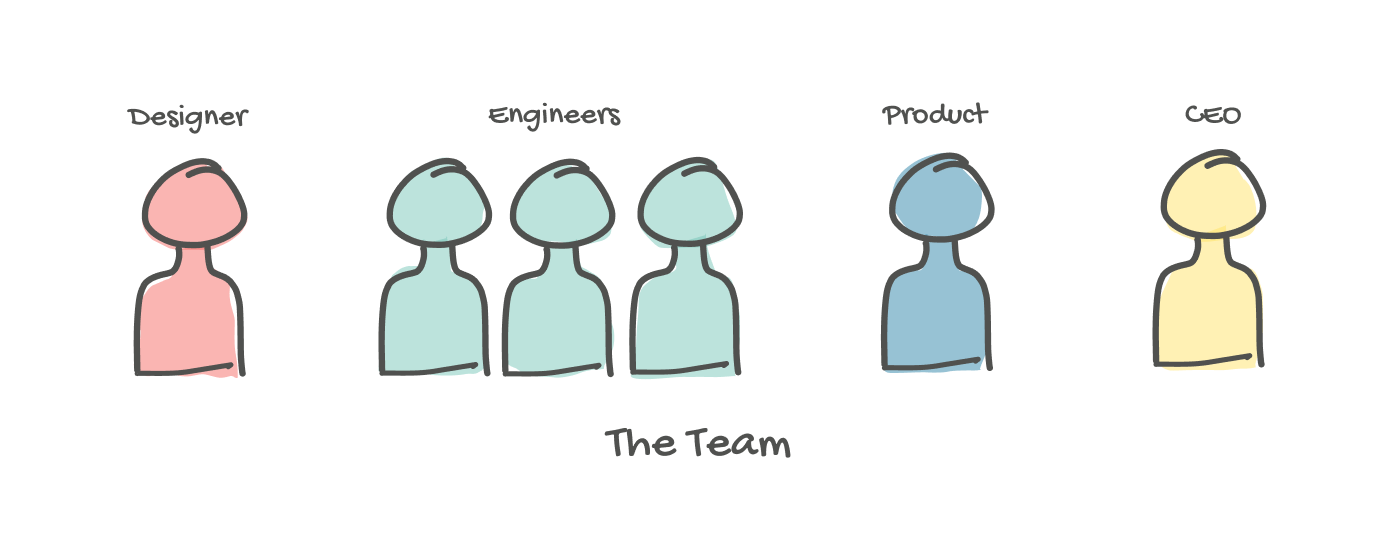
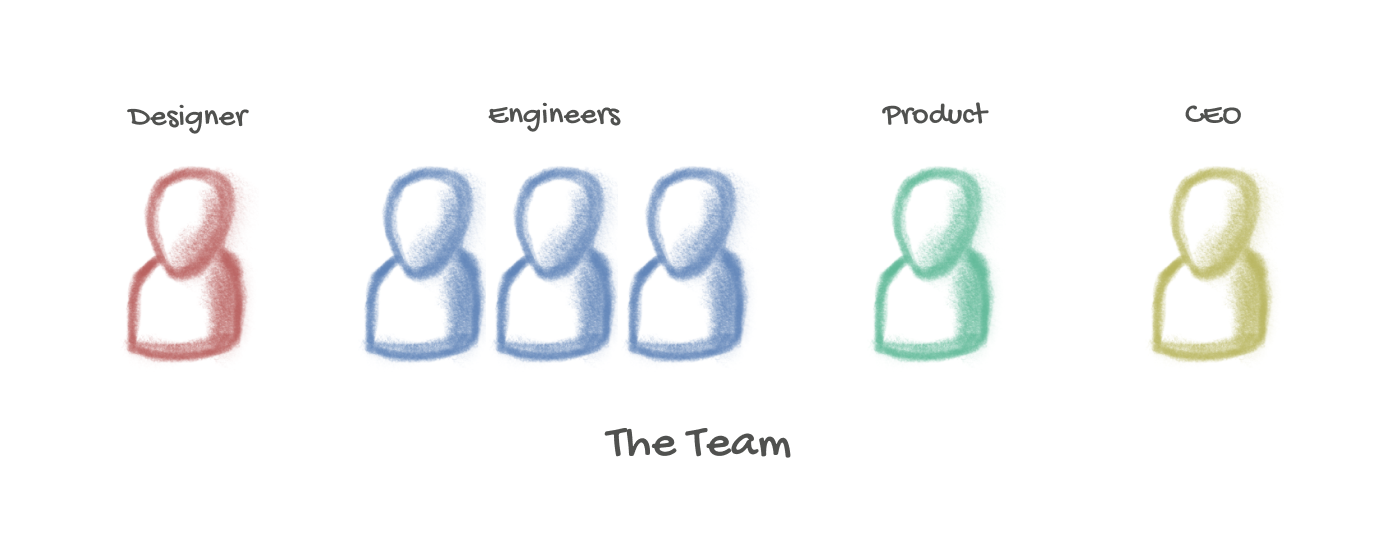
Updated the team photo for the aerlytix analytics suite case study.

diff --git a/public/case-studies/aerlytix-analytics-suite/index.html b/public/case-studies/aerlytix-analytics-suite/index.html
@@ -38,7 +38,7 @@
   <link rel="icon" type="image/png" sizes="16x16" href="https://www.ivanfrantar.com/images/favicon-16x16.png">
   <link rel="mask-icon" href="https://www.ivanfrantar.com/images/safari-pinned-tab.svg" color="#000000">
   <link rel="shortcut icon" type="image/x-icon" href="https://www.ivanfrantar.com/images/favicon.ico">
-  <link rel="stylesheet" href="/css/main.css?3d9a-0c1c-0491" />
+  <link rel="stylesheet" href="/css/main.css?02db-f0f2-d3b9" />
   <link rel="alternate" type="application/rss+xml" href="https://www.ivanfrantar.com/feed.xml" />
    
   
@@ -307,7 +307,7 @@ To ensure the wireframes were robust and aligned with user expectations, I condu
 <div class="container-lg mb-4">
   <img src="/images/case-studies/aerlytix/app-design-7.jpg" alt="App structure of the app">
 </div>
-<div class="container-lg mb-4">
+<div class="container-lg mb-5">
   <img src="/images/case-studies/aerlytix/app-design-8.jpg" alt="App structure of the app">
 </div>
 <div class="container post__container">

diff --git a/public/about-me/index.html b/public/about-me/index.html
@@ -40,7 +40,7 @@
   <link rel="icon" type="image/png" sizes="16x16" href="https://www.ivanfrantar.com/images/favicon-16x16.png">
   <link rel="mask-icon" href="https://www.ivanfrantar.com/images/safari-pinned-tab.svg" color="#000000">
   <link rel="shortcut icon" type="image/x-icon" href="https://www.ivanfrantar.com/images/favicon.ico">
-  <link rel="stylesheet" href="/css/main.css?1ad1-7541-9b48" />
+  <link rel="stylesheet" href="/css/main.css?f95d-35ae-f9ce" />
   <link rel="alternate" type="application/rss+xml" href="https://www.ivanfrantar.com/feed.xml" />
    
   

diff --git a/public/case-studies/aerlytix-reporting/index.html b/public/case-studies/aerlytix-reporting/index.html
@@ -38,7 +38,7 @@
   <link rel="icon" type="image/png" sizes="16x16" href="https://www.ivanfrantar.com/images/favicon-16x16.png">
   <link rel="mask-icon" href="https://www.ivanfrantar.com/images/safari-pinned-tab.svg" color="#000000">
   <link rel="shortcut icon" type="image/x-icon" href="https://www.ivanfrantar.com/images/favicon.ico">
-  <link rel="stylesheet" href="/css/main.css?c26d-df19-ecb3" />
+  <link rel="stylesheet" href="/css/main.css?662c-ca05-cfcf" />
   <link rel="alternate" type="application/rss+xml" href="https://www.ivanfrantar.com/feed.xml" />
    
   

diff --git a/public/contact-me/index.html b/public/contact-me/index.html
@@ -40,7 +40,7 @@
   <link rel="icon" type="image/png" sizes="16x16" href="https://www.ivanfrantar.com/images/favicon-16x16.png">
   <link rel="mask-icon" href="https://www.ivanfrantar.com/images/safari-pinned-tab.svg" color="#000000">
   <link rel="shortcut icon" type="image/x-icon" href="https://www.ivanfrantar.com/images/favicon.ico">
-  <link rel="stylesheet" href="/css/main.css?de61-aa5e-96c8" />
+  <link rel="stylesheet" href="/css/main.css?ddc7-cf13-f198" />
   <link rel="alternate" type="application/rss+xml" href="https://www.ivanfrantar.com/feed.xml" />
    
   

diff --git a/public/index.html b/public/index.html
@@ -38,7 +38,7 @@
   <link rel="icon" type="image/png" sizes="16x16" href="https://www.ivanfrantar.com/images/favicon-16x16.png">
   <link rel="mask-icon" href="https://www.ivanfrantar.com/images/safari-pinned-tab.svg" color="#000000">
   <link rel="shortcut icon" type="image/x-icon" href="https://www.ivanfrantar.com/images/favicon.ico">
-  <link rel="stylesheet" href="/css/main.css?ffd9-7b22-afbc" />
+  <link rel="stylesheet" href="/css/main.css?f97b-e256-932f" />
   <link rel="alternate" type="application/rss+xml" href="https://www.ivanfrantar.com/feed.xml" />
    
   

diff --git a/public/notes/aerlytix-partners-with-stratos-to-transform-aircraft-abs-reporting/index.html b/public/notes/aerlytix-partners-with-stratos-to-transform-aircraft-abs-reporting/index.html
@@ -38,7 +38,7 @@
   <link rel="icon" type="image/png" sizes="16x16" href="https://www.ivanfrantar.com/images/favicon-16x16.png">
   <link rel="mask-icon" href="https://www.ivanfrantar.com/images/safari-pinned-tab.svg" color="#000000">
   <link rel="shortcut icon" type="image/x-icon" href="https://www.ivanfrantar.com/images/favicon.ico">
-  <link rel="stylesheet" href="/css/main.css?d83a-650c-de3b" />
+  <link rel="stylesheet" href="/css/main.css?4e37-19ea-c14c" />
   <link rel="alternate" type="application/rss+xml" href="https://www.ivanfrantar.com/feed.xml" />
    
   

diff --git a/public/notes/the-aerlytix-team-moves-into-new-headquarters-in-the-centre-of-dublin/index.html b/public/notes/the-aerlytix-team-moves-into-new-headquarters-in-the-centre-of-dublin/index.html
@@ -38,7 +38,7 @@
   <link rel="icon" type="image/png" sizes="16x16" href="https://www.ivanfrantar.com/images/favicon-16x16.png">
   <link rel="mask-icon" href="https://www.ivanfrantar.com/images/safari-pinned-tab.svg" color="#000000">
   <link rel="shortcut icon" type="image/x-icon" href="https://www.ivanfrantar.com/images/favicon.ico">
-  <link rel="stylesheet" href="/css/main.css?eaa9-3485-5d0e" />
+  <link rel="stylesheet" href="/css/main.css?26f5-b875-1576" />
   <link rel="alternate" type="application/rss+xml" href="https://www.ivanfrantar.com/feed.xml" />
    
   

diff --git a/public/tag/abs/index.html b/public/tag/abs/index.html
@@ -38,7 +38,7 @@
   <link rel="icon" type="image/png" sizes="16x16" href="https://www.ivanfrantar.com/images/favicon-16x16.png">
   <link rel="mask-icon" href="https://www.ivanfrantar.com/images/safari-pinned-tab.svg" color="#000000">
   <link rel="shortcut icon" type="image/x-icon" href="https://www.ivanfrantar.com/images/favicon.ico">
-  <link rel="stylesheet" href="/css/main.css?eea3-3de9-c299" />
+  <link rel="stylesheet" href="/css/main.css?1da8-c407-8c7d" />
   <link rel="alternate" type="application/rss+xml" href="https://www.ivanfrantar.com/feed.xml" />
    
   

diff --git a/public/tag/aerlytix-team/index.html b/public/tag/aerlytix-team/index.html
@@ -38,7 +38,7 @@
   <link rel="icon" type="image/png" sizes="16x16" href="https://www.ivanfrantar.com/images/favicon-16x16.png">
   <link rel="mask-icon" href="https://www.ivanfrantar.com/images/safari-pinned-tab.svg" color="#000000">
   <link rel="shortcut icon" type="image/x-icon" href="https://www.ivanfrantar.com/images/favicon.ico">
-  <link rel="stylesheet" href="/css/main.css?52f8-d6ef-c921" />
+  <link rel="stylesheet" href="/css/main.css?d2bf-e791-aea5" />
   <link rel="alternate" type="application/rss+xml" href="https://www.ivanfrantar.com/feed.xml" />
    
   

diff --git a/public/tag/branding/index.html b/public/tag/branding/index.html
@@ -38,7 +38,7 @@
   <link rel="icon" type="image/png" sizes="16x16" href="https://www.ivanfrantar.com/images/favicon-16x16.png">
   <link rel="mask-icon" href="https://www.ivanfrantar.com/images/safari-pinned-tab.svg" color="#000000">
   <link rel="shortcut icon" type="image/x-icon" href="https://www.ivanfrantar.com/images/favicon.ico">
-  <link rel="stylesheet" href="/css/main.css?3932-1455-c98a" />
+  <link rel="stylesheet" href="/css/main.css?d7b5-b4ec-3eda" />
   <link rel="alternate" type="application/rss+xml" href="https://www.ivanfrantar.com/feed.xml" />
    
   

diff --git a/public/tag/business/index.html b/public/tag/business/index.html
@@ -38,7 +38,7 @@
   <link rel="icon" type="image/png" sizes="16x16" href="https://www.ivanfrantar.com/images/favicon-16x16.png">
   <link rel="mask-icon" href="https://www.ivanfrantar.com/images/safari-pinned-tab.svg" color="#000000">
   <link rel="shortcut icon" type="image/x-icon" href="https://www.ivanfrantar.com/images/favicon.ico">
-  <link rel="stylesheet" href="/css/main.css?852a-753d-bc13" />
+  <link rel="stylesheet" href="/css/main.css?8f04-d4c2-a68c" />
   <link rel="alternate" type="application/rss+xml" href="https://www.ivanfrantar.com/feed.xml" />
    
   

diff --git a/public/tag/notes/index.html b/public/tag/notes/index.html
@@ -38,7 +38,7 @@
   <link rel="icon" type="image/png" sizes="16x16" href="https://www.ivanfrantar.com/images/favicon-16x16.png">
   <link rel="mask-icon" href="https://www.ivanfrantar.com/images/safari-pinned-tab.svg" color="#000000">
   <link rel="shortcut icon" type="image/x-icon" href="https://www.ivanfrantar.com/images/favicon.ico">
-  <link rel="stylesheet" href="/css/main.css?8055-3cc4-6fa1" />
+  <link rel="stylesheet" href="/css/main.css?1482-8b1d-f351" />
   <link rel="alternate" type="application/rss+xml" href="https://www.ivanfrantar.com/feed.xml" />
    
   
